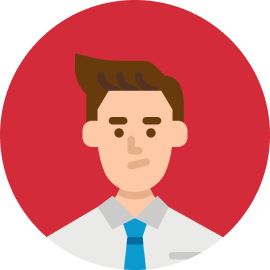
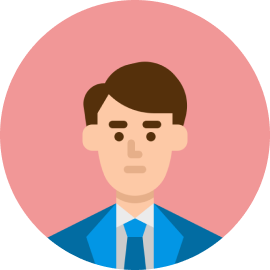
change scrollbar to begin from the bottom of the chat and create hashmap to map profile

diff --git a/client/src/pages/Chat-Window/chat-window.tsx b/client/src/pages/Chat-Window/chat-window.tsx
@@ -1,9 +1,10 @@
-import React, { FormEvent, useEffect, useState } from "react";
+import React, { FormEvent, useEffect, useRef, useState } from "react";
 import { socket } from "../login";
 import Image from "next/image";
 import { PaperAirplaneIcon } from "@heroicons/react/24/solid";
 import { useRouter } from "next/router";
 import { formatTime } from "@/utils/date";
+import hashString from "@/utils/hashString";
 
 export type Message = {
   author: string;
@@ -22,12 +23,19 @@ const ChatWindow: React.FC<ChatWindowProps> = ({ selectedGroup }) => {
   const [messages, setMessages] = useState<{ [key: string]: Message[] }>({});
   const router = useRouter();
   const { username } = router.query;
+  const messagesEndRef = useRef<HTMLDivElement>(null);
+
+  useEffect(() => {
+    if (messagesEndRef.current) {
+      messagesEndRef.current.scrollTop = messagesEndRef.current.scrollHeight;
+    }
+  }, [messages]);
 
   useEffect(() => {
     const handleNewMessage = (data: Message) => {
       console.log(data);
       data.time = new Date(data.time);
-      if (data.message != "") {
+      if (data.message.trim() != "") {
         setMessages((prevMessages) => {
           const currentRoomMessages = prevMessages[data.room] || [];
           return {
@@ -81,12 +89,14 @@ const ChatWindow: React.FC<ChatWindowProps> = ({ selectedGroup }) => {
 
   const handleSendMessage = (e: FormEvent<HTMLFormElement>) => {
     e.preventDefault(); // prevent the form from refreshing the page
-    socket.emit("send-message", {
-      author: username,
-      message: message,
-      time: new Date(),
-      room: room,
-    });
+    if (message.trim() != "") {
+      socket.emit("send-message", {
+        author: username,
+        message: message,
+        time: new Date(),
+        room: room,
+      });
+    } // Prevent sending empty message
     setmessage(""); // Clear the input text box
   };
 
@@ -101,7 +111,10 @@ const ChatWindow: React.FC<ChatWindowProps> = ({ selectedGroup }) => {
           </div>
         </div>
       </div>
-      <div className="bg-bgColor h-full w-full pt-8 px-8 flex-grow overflow-y-auto">
+      <div
+        className="bg-bgColor h-full w-full pt-8 px-8 flex-grow overflow-y-auto"
+        ref={messagesEndRef}
+      >
         <div>
           {(messages[selectedGroup] || []).map((m, index) => {
             const isCurrentUser = m.author === username;
@@ -113,7 +126,7 @@ const ChatWindow: React.FC<ChatWindowProps> = ({ selectedGroup }) => {
                 }`}
               >
                 <Image
-                  src="/Frame_8.png"
+                  src={`/Frame_${hashString(m.author as string) % 9}.png`}
                   alt=""
                   width={40}
                   height={40}

diff --git a/client/src/pages/login.tsx b/client/src/pages/login.tsx
@@ -38,18 +38,16 @@ const Login = () => {
     <div className="flex flex-1 flex-col items-center bg-bgColor w-screen h-screen justify-center">
       <Image src="/logo.png" alt="" width={400} height={200}></Image>
       <form className="w-1/4 mt-10 flex flex-row" onSubmit={handleLogin}>
-        <div>
-          <input
-            type="text"
-            className="w-full h-16 rounded-2xl bg-borderColor pl-5 text-white"
-            placeholder="Enter your name"
-            name="username"
-            onChange={(e) => setUsername(e.target.value)}
-          />
-        </div>
+        <input
+          type="text"
+          className="w-full h-16 rounded-2xl bg-borderColor pl-5 text-white"
+          placeholder="Enter your name"
+          name="username"
+          onChange={(e) => setUsername(e.target.value)}
+        />
         <button
           type="submit"
-          className="flex items-center justify-center h-16 w-16 bg-purple rounded-full ml-5"
+          className="w-16 flex items-center justify-center h-16 w-16 bg-purple rounded-full ml-5"
           name="Go"
         >
           <ArrowRightIcon className="h-8 w-8 text-white" strokeWidth={2} />

diff --git a/client/src/pages/home.tsx b/client/src/pages/home.tsx
@@ -4,6 +4,7 @@ import Sidebar from "./Left-Sidebar/sidebar";
 import ChatWindow from "./Chat-Window/chat-window";
 import { ChevronDownIcon } from "@heroicons/react/24/outline";
 import { useRouter } from "next/router";
+import hashString from "@/utils/hashString";
 
 const Home: React.FC = () => {
   const router = useRouter();
@@ -67,7 +68,12 @@ const Home: React.FC = () => {
             className="flex flex-row items-center hover:bg-bgColor p-2 rounded-2xl mr-3"
             onClick={toggleDropdown}
           >
-            <Image src="/Frame_8.png" alt="" width={50} height={50}></Image>
+            <Image
+              src={`/Frame_${hashString(username as string) % 9}.png`}
+              alt=""
+              width={50}
+              height={50}
+            ></Image>
             <p className="ml-3 text-sm font-roboto text-white">{username}</p>
             <ChevronDownIcon className="h-4 w-4 text-fontWhiteDarkBgColor ml-4" />
           </button>

diff --git a/client/src/pages/Left-Sidebar/list-group.tsx b/client/src/pages/Left-Sidebar/list-group.tsx
@@ -4,6 +4,7 @@ import { socket } from "../login";
 import { Message } from "../Chat-Window/chat-window";
 import { useRouter } from "next/router";
 import { MagnifyingGlassIcon } from "@heroicons/react/24/outline";
+import hashString from "@/utils/hashString";
 
 interface Group {
   groupName: string;
@@ -129,7 +130,7 @@ const Groups: React.FC<ChatGroupsProps> = ({ onGroupClick, selectedGroup }) => {
               }}
             >
               <Image
-                src="/Frame_8.png"
+                src={`/G${hashString(group.groupName as string) % 9}.png`}
                 alt=""
                 width={75}
                 height={50}

diff --git a/client/src/utils/hashString.ts b/client/src/utils/hashString.ts
@@ -1,0 +1,11 @@
+function hashString(str: string): number {
+    let hash = 0;
+    for (let i = 0; i < str.length; i++) {
+      hash = ((hash << 5) - hash) + str.charCodeAt(i);
+      hash |= 0;
+    }
+    return Math.abs(hash) % 9;
+  }
+  
+  export default hashString;
+  
